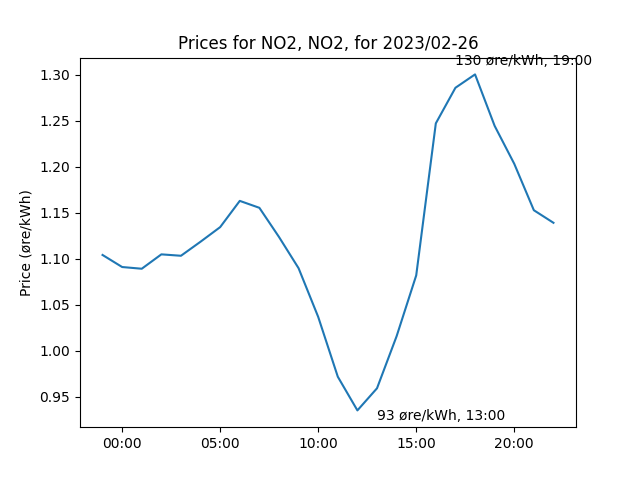
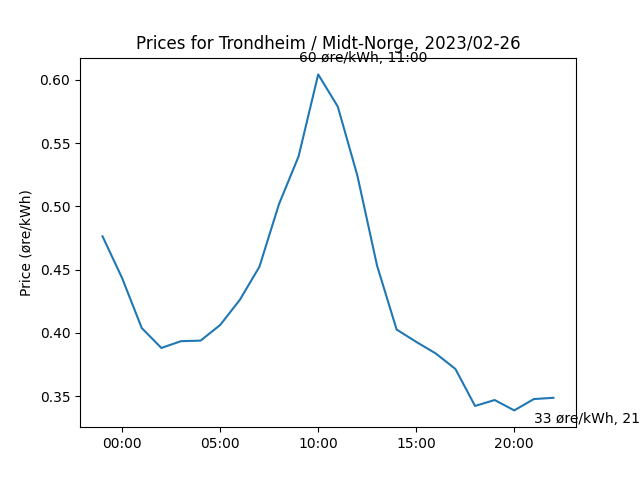
Complete power_prices

diff --git a/padde/plugins/power_prices.py b/padde/plugins/power_prices.py
@@ -64,14 +64,14 @@ class PowerPricesView(miru.View):
             async with session.get(f"https://www.hvakosterstrommen.no/api/v1/prices/{now.year}/{str(now.month).zfill(2)}-{str(now.day).zfill(2)}_{select.values[0]}.json") as r:
                 data = await r.json()
 
-        # Extract the relevant values from the data
+        # Extract relevant values from data
         prices = [d['NOK_per_kWh'] for d in data]
         times = [d['time_start'] for d in data]
 
-        # Convert the times to datetime objects
+        # Convert times to datetime objects
         times = [datetime.fromisoformat(t) for t in times]
 
-        # Create the plot
+        # Create plot
         fig, ax = plt.subplots()
         ax.plot(times, prices)
 
@@ -81,7 +81,7 @@ class PowerPricesView(miru.View):
         ax.xaxis.set_major_locator(locator)
         ax.xaxis.set_major_formatter(formatter)
 
-        # Annotate the highest and lowest points
+        # Annotate highest and lowest points
         min_price = min(prices)
         max_price = max(prices)
         min_time = times[prices.index(min_price)]
@@ -91,13 +91,28 @@ class PowerPricesView(miru.View):
         ax.annotate(f'{int(max_price * 100)} øre/kWh, {max_time.hour}:00', xy=(max_time, max_price),
                     xytext=(max_time + timedelta(hours=-1), max_price + 0.01))
 
-        # Set the axis labels and title
-        ax.set_ylabel('Price (øre/kWh)')
-        ax.set_title(f"Prices for {select.values[0]}, {select.values[0]}, for {now.year}/{str(now.month).zfill(2)}-{str(now.day).zfill(2)}")
+        # Pick text for chosen region
+        match select.values[0]:
+            case "NO1":
+                region = "Oslo / Øst-Norge"
+            case "NO2":
+                region = "Kristiansand / Sør-Norge"
+            case "NO3":
+                region = "Trondheim / Midt-Norge"
+            case "NO4":
+                region = "Tromsø / Nord-Norge"
+            case _:
+                region = "Bergen / Vest-Norge"
 
-        # Show the plot
+        # Set axis labels and title
+        ax.set_ylabel('Price (øre/kWh)')
+        ax.set_title(f"Prices for {region}, {now.year}/{str(now.month).zfill(2)}-{str(now.day).zfill(2)}")
+
+        # Save plot as png
         plt.savefig("padde/data/power_prices.png")
-        await ctx.respond(content=f"Here are prices for {select.values[0]}, {now.year}/{str(now.month).zfill(2)}-{str(now.day).zfill(2)}", attachment=hikari.File('padde/data/power_prices.png'), flags=hikari.MessageFlag.EPHEMERAL)
+
+        # Send plot to user in Discord
+        await ctx.respond(content=f"Here are prices for {region}, {now.year}/{str(now.month).zfill(2)}-{str(now.day).zfill(2)}", attachment=hikari.File('padde/data/power_prices.png'), flags=hikari.MessageFlag.EPHEMERAL)
         plt.clf()
 
 
@@ -115,8 +130,10 @@ async def startup_views(event: hikari.StartedEvent) -> None:
 @lightbulb.implements(lightbulb.SlashCommand)
 async def show_power_prices(ctx: lightbulb.Context) -> None:
     pView = PowerPricesView()
-    aResp = await plugin.bot.rest.create_message(ctx.channel_id, content="Select a region to view today's prices:", components=pView)
+    aResp = await plugin.bot.rest.create_message(ctx.channel_id, content="Select a region to view today's prices.\n"
+                                                                         "Power prices delivered by hvakosterstrommen.no", components=pView)
     await pView.start(aResp)
+    await ctx.respond("Done.", flags=hikari.MessageFlag.EPHEMERAL, delete_after=10)
 
 
 def load(bot):
